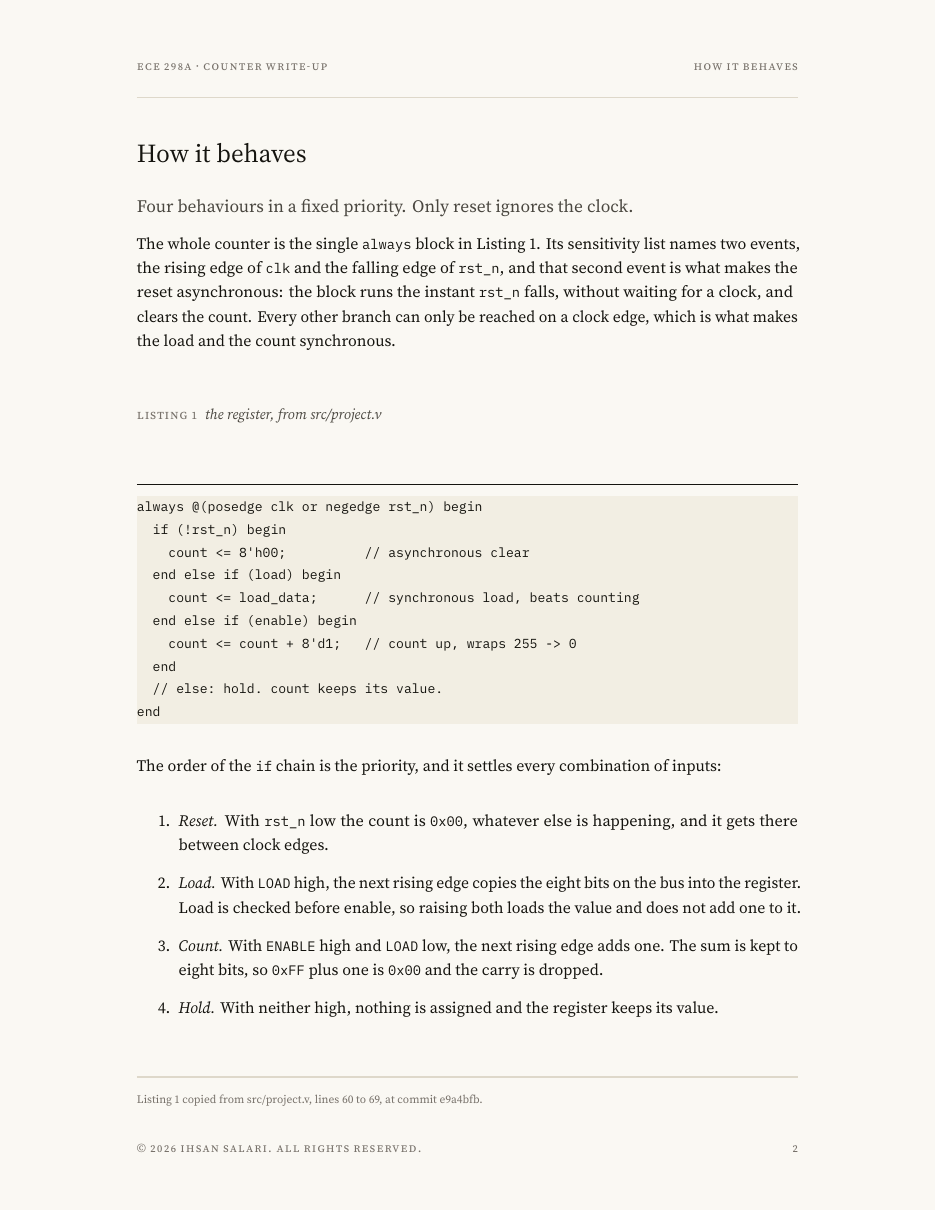
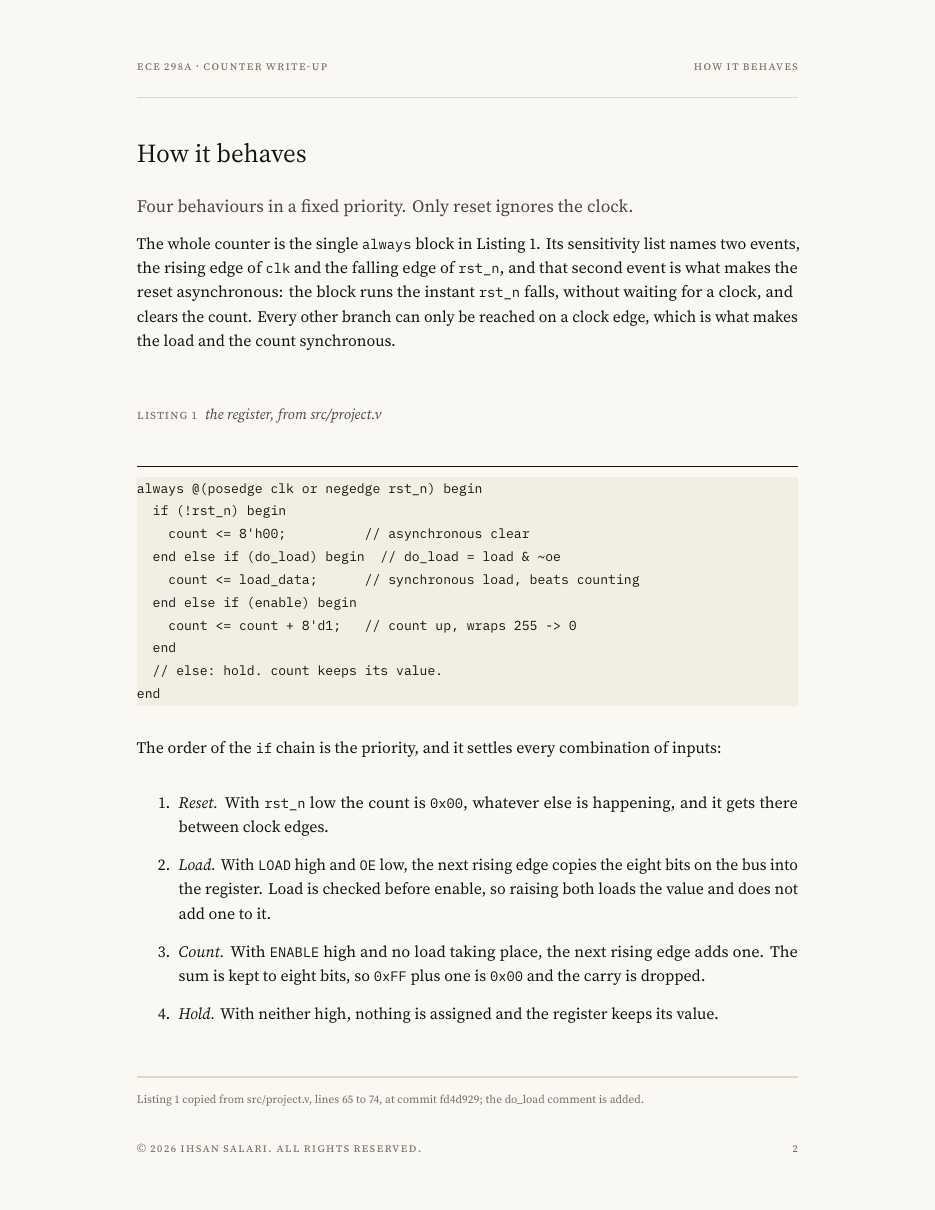
wip: checkpoint 2026-09-25T07:42:15Z [8 file(s)] [cc]

diff --git a/docs/counter_writeup.tex b/docs/counter_writeup.tex
@@ -42,7 +42,7 @@ driven. The load data comes in on that same bus, and that one decision shapes th
 \end{tikzpicture}
 \end{hsfigure}
 
-\hsprovenance{Figure 1 drawn from src/project.v at commit e9a4bfb, track/counter, 23 September 2026.}
+\hsprovenance{Figure 1 drawn from src/project.v at commit fd4d929, track/counter, 23 September 2026.}
 \newpage
 
 \section{How it behaves}\label{sec:behaviour}
@@ -59,7 +59,7 @@ on a clock edge, which is what makes the load and the count synchronous.
 always @(posedge clk or negedge rst_n) begin
   if (!rst_n) begin
     count <= 8'h00;          // asynchronous clear
-  end else if (load) begin
+  end else if (do_load) begin  // do_load = load & ~oe
     count <= load_data;      // synchronous load, beats counting
   end else if (enable) begin
     count <= count + 8'd1;   // count up, wraps 255 -> 0
@@ -73,16 +73,16 @@ The order of the \texttt{if} chain is the priority, and it settles every combina
 \begin{enumerate}
 \item \textit{Reset.} With \texttt{rst\_n} low the count is \texttt{0x00}, whatever else is
   happening, and it gets there between clock edges.
-\item \textit{Load.} With \texttt{LOAD} high, the next rising edge copies the eight bits on the
-  bus into the register. Load is checked before enable, so raising both loads the value and
+\item \textit{Load.} With \texttt{LOAD} high and \texttt{OE} low, the next rising edge copies the
+  eight bits on the bus into the register. Load is checked before enable, so raising both loads the value and
   does not add one to it.
-\item \textit{Count.} With \texttt{ENABLE} high and \texttt{LOAD} low, the next rising edge adds
+\item \textit{Count.} With \texttt{ENABLE} high and no load taking place, the next rising edge adds
   one. The sum is kept to eight bits, so \texttt{0xFF} plus one is \texttt{0x00} and the carry
   is dropped.
 \item \textit{Hold.} With neither high, nothing is assigned and the register keeps its value.
 \end{enumerate}
 
-\hsprovenance{Listing 1 copied from src/project.v, lines 60 to 69, at commit e9a4bfb.}
+\hsprovenance{Listing 1 copied from src/project.v, lines 65 to 74, at commit fd4d929; the do\_load comment is added.}
 \newpage
 
 \section{The pin mapping}\label{sec:pins}
@@ -117,18 +117,19 @@ it does not. \texttt{OE} chooses which, by setting all eight bits of \texttt{uio
 \end{hsblock}
 
 \begin{hscallout}{Can you load while the bus is driving?}
-No, and this is the price of sharing the bus. While \texttt{OE} is high the tile is driving
-\texttt{uio}, nothing outside can put data on it, and a load would capture the counter's own
-output. To load, drop \texttt{OE}, put the value on the bus, then raise \texttt{LOAD} for one
-clock edge. The count stays visible on \texttt{uo} throughout.
+No, and this is the price of sharing the bus. While \texttt{OE} is high the tile drives
+\texttt{uio}, and the GF180 pad switches its input side off (its datasheet lists input and output
+enabled together as disallowed), so \texttt{uio\_in} has no defined value. The design therefore
+ignores \texttt{LOAD} while \texttt{OE} is high. To load, drop \texttt{OE}, put the value on the
+bus, then raise \texttt{LOAD} for one clock edge.
 \end{hscallout}
 \newpage
 
 \section{How it was verified}\label{sec:verify}
-\hslead{Seven CocoTB tests, a check that they catch broken designs, and the Tiny Tapeout build.}
+\hslead{Eight CocoTB tests, a check that they catch broken designs, and the Tiny Tapeout build.}
 
 \begin{hsstatrow}[3]
-\hsstat{7 / 7}{CocoTB tests passing in CI}
+\hsstat{8 / 8}{CocoTB tests passing in CI}
 \hsstat{4 / 4}{deliberately broken counters caught}
 \hsstat{3 / 3}{Tiny Tapeout workflows passing}
 \end{hsstatrow}
@@ -142,15 +143,15 @@ test.
 \hsclaim{The tests pass on the real counter and fail on each of four broken ones.}{What the verification establishes}
 
 \begin{hscallout}{What this does not show}
-The broken-counter check was run in RTL simulation only, and it covered four of the seven
+The broken-counter check was run in RTL simulation only, and it covered four of the eight
 behaviours by mutation; the rest rely on the tests themselves. Gate-level simulation of the
 synthesized netlist ran in CI and passed, but nothing here has been measured on silicon.
 \end{hscallout}
 
-\hsprovenance{Tests: CI run 35284260559, results.xml, 7 testcases and 0 failures. Mutations: development journal, 17 September 2026. Workflows: runs 35284260581, 35284260559 and 35286678743.}
+\hsprovenance{Tests: CI run 36108189405 on fd4d929, results.xml, 8 testcases and 0 failures. Mutations: development journal, 17 September 2026. Workflows: runs 36108189395, 36108189405 and 36108189581, 25 September 2026.}
 \newpage
 
-\section{The seven tests}\label{sec:tests}
+\section{The eight tests}\label{sec:tests}
 \hslead{One requirement per test, so a failure names the requirement that broke.}
 
 The testbench in \texttt{test/} drives the tile's pins directly, the way the demo board would,
@@ -168,12 +169,13 @@ and reads the count back from \texttt{uo}. Each test checks one requirement from
 \texttt{test\_count\_enable\_holds} & with \texttt{ENABLE} low the count is unchanged over many edges \\ \hline
 \texttt{test\_wraparound} & \texttt{0xFF} plus one gives \texttt{0x00} \\ \hline
 \texttt{test\_tristate\_bus} & \texttt{OE} switches \texttt{uio\_oe} between \texttt{0xFF} and \texttt{0x00}, and \texttt{uo} tracks the count either way \\ \hline
-\texttt{test\_load\_beats\_count} & with \texttt{LOAD} and \texttt{ENABLE} both high, the loaded value wins with no added one \\
+\texttt{test\_load\_beats\_count} & with \texttt{LOAD} and \texttt{ENABLE} both high, the loaded value wins with no added one \\ \hline
+\texttt{test\_load\_ignored\_while\_driving} & with \texttt{OE} high, \texttt{LOAD} leaves the count alone, and with \texttt{ENABLE} also high it keeps counting \\
 \hstoprule
 \end{tabularx}
 \end{hsblock}
 
-\hsprovenance{Test names and checks from test/test.py at commit e9a4bfb; all seven passed in CI run 35284260559.}
+\hsprovenance{Test names and checks from test/test.py at commit fd4d929; all eight passed in CI run 36108189405.}
 \newpage
 
 \section{The build}\label{sec:build}

diff --git a/README.md b/README.md
@@ -22,7 +22,7 @@ on a single Tiny Tapeout tile. ECE 298A (University of Waterloo), project 1 — 
 ![Page 2: how it behaves](writeup/page-2.png)
 ![Page 3: the pin mapping](writeup/page-3.png)
 ![Page 4: how it was verified](writeup/page-4.png)
-![Page 5: the seven tests](writeup/page-5.png)
+![Page 5: the eight tests](writeup/page-5.png)
 ![Page 6: the build](writeup/page-6.png)
 ![Page 7: sources](writeup/page-7.png)
 
